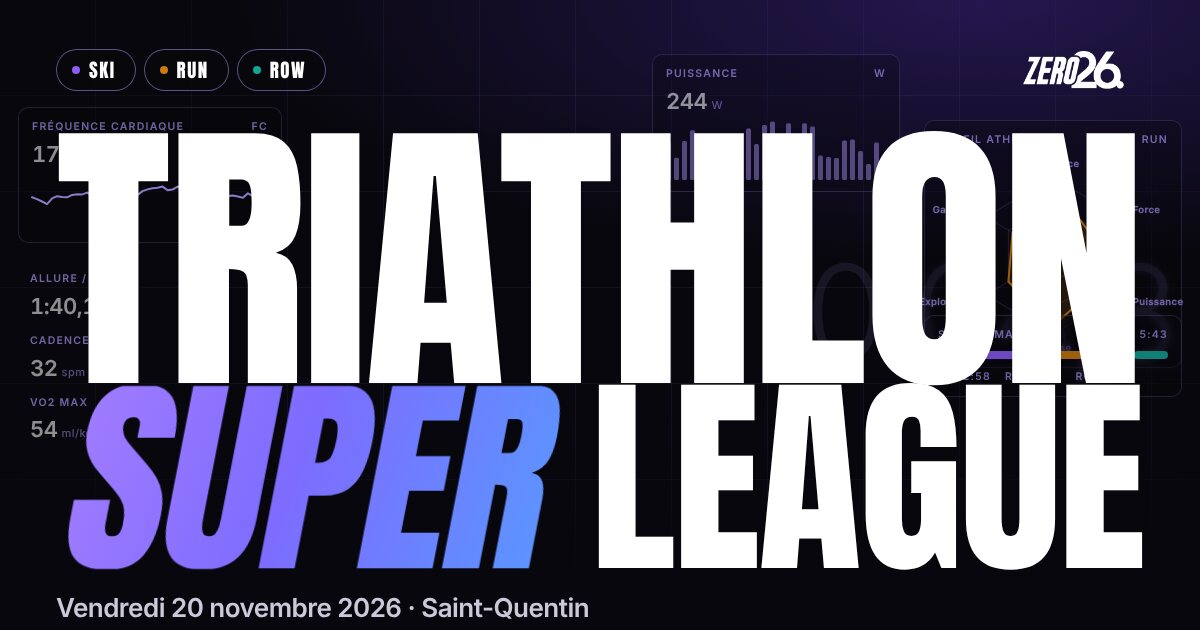
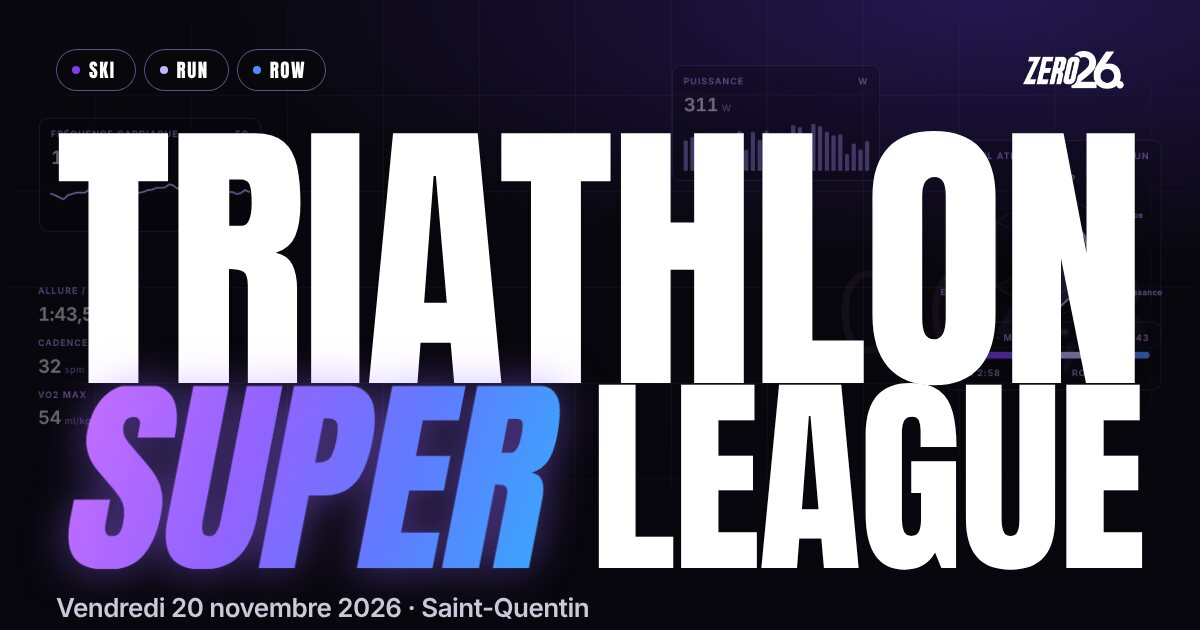
SuperLeague : interrupteur jour / nuit, reflet sur SUPER, couleurs ZERO26
- Bouton jour / nuit en interrupteur soleil / lune (pastille dégradée,
  halo), bien visible sur ordinateur et sur téléphone.
- « SUPER » : dégradé plus lumineux, léger halo et reflet qui le balaie
  toutes les 6,5 s.
- Fond de statistiques plus petit et plus transparent.
- Couleurs des appareils reprises dans la gamme ZERO26 : SKI violet,
  RUN lavande, ROW bleu, distinguées par leur clarté et validées pour
  les daltoniens sur les deux surfaces.
- Formulaire : « Votre inscription » dans la police des titres (Anton).
- Image de partage régénérée.

Claude-Session: https://claude.ai/code/session_01TCrXvM9RBoKhDigCd19tZc

diff --git a/assets/css/superleague.css b/assets/css/superleague.css
@@ -23,9 +23,10 @@
 
 /* ---------- Surfaces ----------
    Chaque section prend les couleurs de sa surface. En mode jour, les surfaces
-   nuit deviennent papier et inversement. Les trois couleurs d'appareils
-   (SKI violet, RUN ambre, ROW sarcelle) sont validées pour les daltoniens sur
-   chacune des deux surfaces. */
+   nuit deviennent papier et inversement. Les trois couleurs d'appareils, prises
+   dans la gamme ZERO26 (SKI violet, RUN lavande, ROW bleu), se distinguent aussi
+   par leur clarté : validées pour les daltoniens sur chaque surface, toujours
+   accompagnées de leur nom. */
 .sl-hero,
 .sl-dark,
 :root[data-theme="day"] .sl-light {
@@ -41,9 +42,11 @@
   --g-text: linear-gradient(100deg, #a07bff 0%, #7d6cff 45%, #5b95ff 100%);
   --hud: 179, 157, 255;
   --glow: #24174f;
-  --ski: #8b5cf6;
-  --run: #c97a10;
-  --row: #14a394;
+  --g-flash: linear-gradient(100deg, #c26cff 0%, #9163ff 36%, #5f7bff 68%, #3aa6ff 100%);
+  --glow-super: rgba(146, 99, 255, .5);
+  --ski: #7b3ff2;
+  --run: #c4b2ff;
+  --row: #4d8bff;
   --on-ski: #ffffff;
   --on-run: #0c0b12;
   --on-row: #0c0b12;
@@ -64,11 +67,13 @@
   --g-text: linear-gradient(100deg, #7b3ff2 0%, #5653f1 50%, #2f6bf0 100%);
   --hud: 86, 83, 241;
   --glow: #e3dafd;
-  --ski: #7b3ff2;
-  --run: #b46800;
-  --row: #008a7c;
+  --g-flash: linear-gradient(100deg, #8d22ea 0%, #6a35f6 38%, #3d5cff 70%, #1689ff 100%);
+  --glow-super: rgba(106, 53, 246, .28);
+  --ski: #6e0fc8;
+  --run: #9f82f0;
+  --row: #2370db;
   --on-ski: #ffffff;
-  --on-run: #ffffff;
+  --on-run: #0c0b12;
   --on-row: #ffffff;
   color-scheme: light;
 }
@@ -109,24 +114,42 @@
 :root[data-theme="day"] .socials a:hover { color: var(--obsidian); }
 :root[data-theme="day"] .grain { opacity: .035; }
 
-/* Bouton jour / nuit (navigation) */
+/* Bouton jour / nuit (navigation) : un interrupteur soleil / lune, pastille dégradée sur le mode actif */
 .sl-theme {
   position: relative;
-  display: grid;
-  place-items: center;
+  display: inline-flex;
+  align-items: center;
+  justify-content: space-between;
   flex: none;
-  width: 40px;
-  height: 40px;
-  border-radius: 50%;
-  box-shadow: inset 0 0 0 1px var(--smoke);
+  width: 70px;
+  height: 38px;
+  padding: 0 5px;
+  border-radius: var(--r-pill);
+  background: rgba(123, 63, 242, .16);
+  box-shadow: inset 0 0 0 1px rgba(179, 157, 255, .55), 0 0 22px -6px rgba(123, 63, 242, .7);
   color: var(--white);
-  transition: box-shadow .4s var(--ease), transform .6s var(--ease);
+  transition: box-shadow .4s var(--ease), background-color .4s var(--ease);
 }
-.sl-theme:hover { box-shadow: inset 0 0 0 1px var(--white); transform: rotate(-20deg); }
-.sl-theme .i { grid-area: 1 / 1; width: 18px; height: 18px; transition: opacity .4s var(--ease), transform .6s var(--ease); }
-.sl-theme__moon { opacity: 0; transform: rotate(-60deg) scale(.6); }
-:root[data-theme="day"] .sl-theme__sun { opacity: 0; transform: rotate(60deg) scale(.6); }
-:root[data-theme="day"] .sl-theme__moon { opacity: 1; transform: none; }
+.sl-theme:hover { background: rgba(123, 63, 242, .26); box-shadow: inset 0 0 0 1px var(--accent), 0 0 28px -4px rgba(123, 63, 242, .9); }
+.sl-theme__knob {
+  position: absolute;
+  top: 4px;
+  left: 4px;
+  width: 30px;
+  height: 30px;
+  border-radius: 50%;
+  background: var(--grad);
+  box-shadow: 0 4px 14px -4px rgba(91, 76, 240, .9);
+  transform: translateX(32px);
+  transition: transform .6s var(--ease);
+}
+.sl-theme .i { position: relative; width: 28px; height: 18px; transition: color .4s var(--ease), opacity .4s var(--ease); }
+.sl-theme__sun { opacity: .7; }
+.sl-theme__moon { color: #fff; }
+:root[data-theme="day"] .sl-theme { background: rgba(86, 83, 241, .1); box-shadow: inset 0 0 0 1px rgba(86, 83, 241, .5), 0 0 22px -8px rgba(86, 83, 241, .6); }
+:root[data-theme="day"] .sl-theme__knob { transform: none; }
+:root[data-theme="day"] .sl-theme__sun { color: #fff; opacity: 1; }
+:root[data-theme="day"] .sl-theme__moon { color: var(--white); opacity: .65; }
 /* Pendant le changement de thème, tout bascule en douceur */
 .sl-theming *, .sl-theming *::before, .sl-theming *::after {
   transition: background-color .5s var(--ease), color .5s var(--ease), border-color .5s var(--ease), box-shadow .5s var(--ease), fill .5s var(--ease), stroke .5s var(--ease) !important;
@@ -253,6 +276,11 @@
   display: inline-block;
   font-style: normal;
   padding-right: .05em;
+  background-image: linear-gradient(100deg, transparent 0 40%, rgba(255, 255, 255, .8) 48%, transparent 56% 100%), var(--g-flash);
+  background-size: 320% 100%, 100% 100%;
+  background-position: 120% 0, 0 0;
+  background-repeat: no-repeat;
+  filter: drop-shadow(0 0 .1em var(--glow-super));
   transform: skewX(-11deg);
   transform-origin: 0 100%;
 }
@@ -268,8 +296,10 @@
   55% { opacity: 1; filter: blur(0); }
   to { letter-spacing: -.012em; opacity: 1; filter: none; }
 }
-.sl-intro .sl-super { animation: sl-italic .9s var(--ease) 1s both; }
+.sl-intro .sl-super { animation: sl-italic .9s var(--ease) 1s both, sl-sheen 6.5s var(--ease-io) 2s infinite; }
 @keyframes sl-italic { from { transform: none; } to { transform: skewX(-11deg); } }
+/* Reflet qui balaie « SUPER » toutes les 6,5 s */
+@keyframes sl-sheen { 0% { background-position: 120% 0, 0 0; } 32%, 100% { background-position: -20% 0, 0 0; } }
 .sl-intro .sl-hero__top > * { animation: sl-fade .9s var(--ease) .7s both; }
 @keyframes sl-fade { from { opacity: 0; transform: translateY(-10px); } to { opacity: 1; transform: none; } }
 
@@ -296,7 +326,7 @@
   height: min(100%, 100svh);
   min-height: 560px;
   pointer-events: none;
-  opacity: .78;
+  opacity: .55;
   color: rgb(var(--hud));
   font-family: var(--sans);
   -webkit-mask-image: linear-gradient(180deg, #000 70%, transparent);
@@ -311,15 +341,15 @@
   -webkit-mask-image: radial-gradient(85% 75% at 50% 40%, #000 30%, transparent 100%);
   mask-image: radial-gradient(85% 75% at 50% 40%, #000 30%, transparent 100%);
 }
-.sl-hud.is-small .sl-hud__w { scale: .82; transform-origin: 0 0; }
+.sl-hud.is-small .sl-hud__w { scale: .7; transform-origin: 100% 0; }
 .sl-hud.is-small .sl-hud__chrono { font-size: 72px; }
-.sl-hud__w { position: absolute; will-change: transform; }
+.sl-hud__w { position: absolute; scale: .84; will-change: transform; }
 .sl-hud__k { display: flex; justify-content: space-between; gap: 12px; margin-bottom: 8px; font-size: 10.5px; font-weight: 600; letter-spacing: .12em; text-transform: uppercase; color: rgba(var(--hud), .8); }
 .sl-hud__v { font-size: 22px; font-weight: 600; letter-spacing: -.02em; line-height: 1; color: var(--fg); opacity: .7; font-variant-numeric: tabular-nums; }
 .sl-hud__v small { margin-left: 4px; font-size: 11px; font-weight: 500; letter-spacing: .04em; color: rgba(var(--hud), .85); }
 .sl-hud svg { display: block; overflow: visible; }
 .sl-hud__panel { padding: 12px 14px; border-radius: 10px; background: color-mix(in srgb, var(--bg) 40%, transparent); box-shadow: inset 0 0 0 1px rgba(var(--hud), .22); -webkit-backdrop-filter: blur(4px); backdrop-filter: blur(4px); }
-.sl-hud__chrono { font-size: clamp(64px, 11vw, 168px); font-weight: 200; letter-spacing: -.05em; line-height: 1; color: rgba(var(--hud), .13); font-variant-numeric: tabular-nums; white-space: nowrap; }
+.sl-hud__chrono { font-size: clamp(64px, 11vw, 168px); font-weight: 200; letter-spacing: -.05em; line-height: 1; color: rgba(var(--hud), .11); font-variant-numeric: tabular-nums; white-space: nowrap; }
 .sl-hud__cross { position: absolute; inset: 0; opacity: 0; transition: opacity .5s var(--ease); }
 .sl-hud__cross.is-on { opacity: 1; }
 .sl-hud__cross i { position: absolute; background: rgba(var(--hud), .3); }
@@ -634,6 +664,7 @@
 
 .sl-form { border-radius: var(--r-sl); }
 .sl-form[hidden] { display: none; }
+.sl-form .form__title { margin-bottom: 10px; font-family: var(--cond); font-size: clamp(30px, 3vw, 40px); line-height: .95; letter-spacing: .005em; text-transform: uppercase; }
 .sl-form .chip span { height: 44px; padding: 0 22px; font-family: var(--cond); font-size: 19px; letter-spacing: .04em; text-transform: uppercase; }
 .sl-form .chip input:checked + span { background: var(--grad); color: #fff; box-shadow: none; }
 .sl-sexe.is-invalid legend { color: var(--error); }
@@ -676,7 +707,14 @@
   .sl-insc { grid-template-columns: minmax(0, 1fr); }
 }
 @media (max-width: 760px) {
-  .nav__actions .sl-theme { width: 44px; height: 44px; }
+  .sl-theme { width: 66px; height: 40px; }
+  .sl-theme__knob { top: 5px; transform: translateX(26px); }
+}
+@media (max-width: 380px) {
+  .nav__actions { gap: 6px; }
+  .sl-theme { width: 60px; }
+  .sl-theme__knob { transform: translateX(20px); }
+  .sl-theme .i { width: 24px; }
 }
 @media (max-width: 600px) {
   .sl-hero__title { --f: 1cqi; }

diff --git a/superleague.html b/superleague.html
@@ -25,7 +25,7 @@
   <link rel="preload" href="assets/fonts/anton-latin.woff2" as="font" type="font/woff2" crossorigin>
   <link rel="preload" href="assets/fonts/inter-latin.woff2" as="font" type="font/woff2" crossorigin>
   <link rel="stylesheet" href="assets/css/style.css?v=20261030">
-  <link rel="stylesheet" href="assets/css/superleague.css?v=20261031">
+  <link rel="stylesheet" href="assets/css/superleague.css?v=20261031b">
   <script>
     document.documentElement.classList.add('js', 'hero-ready');
     try { if (localStorage.getItem('z26-theme') === 'day') document.documentElement.dataset.theme = 'day'; } catch (e) {}
@@ -88,6 +88,7 @@
     </nav>
     <div class="nav__actions">
       <button class="sl-theme" type="button" data-sl-theme aria-pressed="false" aria-label="Passer en mode jour">
+        <span class="sl-theme__knob" aria-hidden="true"></span>
         <svg class="i sl-theme__sun" viewBox="0 0 24 24" aria-hidden="true"><circle cx="12" cy="12" r="4"/><path d="M12 2.5v2M12 19.5v2M4.6 4.6 6 6M18 18l1.4 1.4M2.5 12h2M19.5 12h2M4.6 19.4 6 18M18 6l1.4-1.4"/></svg>
         <svg class="i sl-theme__moon" viewBox="0 0 24 24" aria-hidden="true"><path d="M19.5 14.6A7.5 7.5 0 0 1 9.4 4.5a7.5 7.5 0 1 0 10.1 10.1z"/></svg>
       </button>

diff --git a/CLAUDE.md b/CLAUDE.md
@@ -12,7 +12,7 @@ Site statique servi tel quel : la racine du dépôt = le dossier `public_html` d
 
 - Page de l'événement, en onglet dans la navigation de toutes les pages. Styles `assets/css/superleague.css` (police Anton hébergée, équivalent gratuit de la Druk Condensed ; couleurs par « surface » nuit / papier), script `assets/js/superleague.js` (titre TRIATHLON / SUPER LEAGUE qui se « serre » à l'arrivée, fond de statistiques animé — valeurs d'illustration —, photos dévoilées au défilement, planning de la manche 1 qui se joue en boucle). Elle réutilise `legal.js` pour la navigation et charge GSAP + ScrollTrigger depuis `assets/vendor/`.
 - Mode jour / nuit : bouton dans la navigation de cette page, choix mémorisé (`localStorage` `z26-theme`) et appliqué avant l'affichage par le script du `<head>` ; `:root[data-theme="day"]` inverse les surfaces et les couleurs partagées du site.
-- Couleurs des appareils (SKI violet, RUN ambre, ROW sarcelle) : validées pour les daltoniens sur les deux surfaces ; ne pas les remplacer par des teintes proches du dégradé, qu'on ne distinguerait plus dans les graphiques.
+- Couleurs des appareils, dans la gamme ZERO26 : SKI violet, RUN lavande, ROW bleu. Elles se distinguent aussi par leur clarté (validées pour les daltoniens sur les deux surfaces) ; toujours les accompagner du nom de l'appareil.
 - Date, clôture et nombre de places : `assets/data/superleague.json` (`date` au format `2026-12-12`, `cloture` au format `2026-12-05T23:59`, `placesMax` à 0 = illimité ; `dateLabel` / `clotureLabel` remplacent le texte affiché si besoin). Vide = « à venir ». Le serveur refuse les inscriptions après la clôture ou une fois complet.
 - Inscriptions (PHP) : `superleague-inscription.php` les enregistre dans `zero26-data/superleague-inscriptions.csv`, à côté de `public_html` (hors du site, la publication ne le touche pas ; repli sur `public_html/.data`, fermé aux visiteurs). Colonnes `prenom,nom,sexe,email,tel,inscrit_le` : c'est le format importé par l'app de gestion du jour J (`prenom`, `nom`, `sexe` obligatoires). Une copie part aussi par e-mail via FormSubmit (`notify` dans `superleague.js`).
 - Page organisateur : `superleague-admin.php` (liste, téléchargement du CSV, suppression). Mot de passe stocké haché dans `includes/superleague.php` (`SL_ADMIN_HASH`) ; jamais le mot de passe en clair dans le dépôt.
